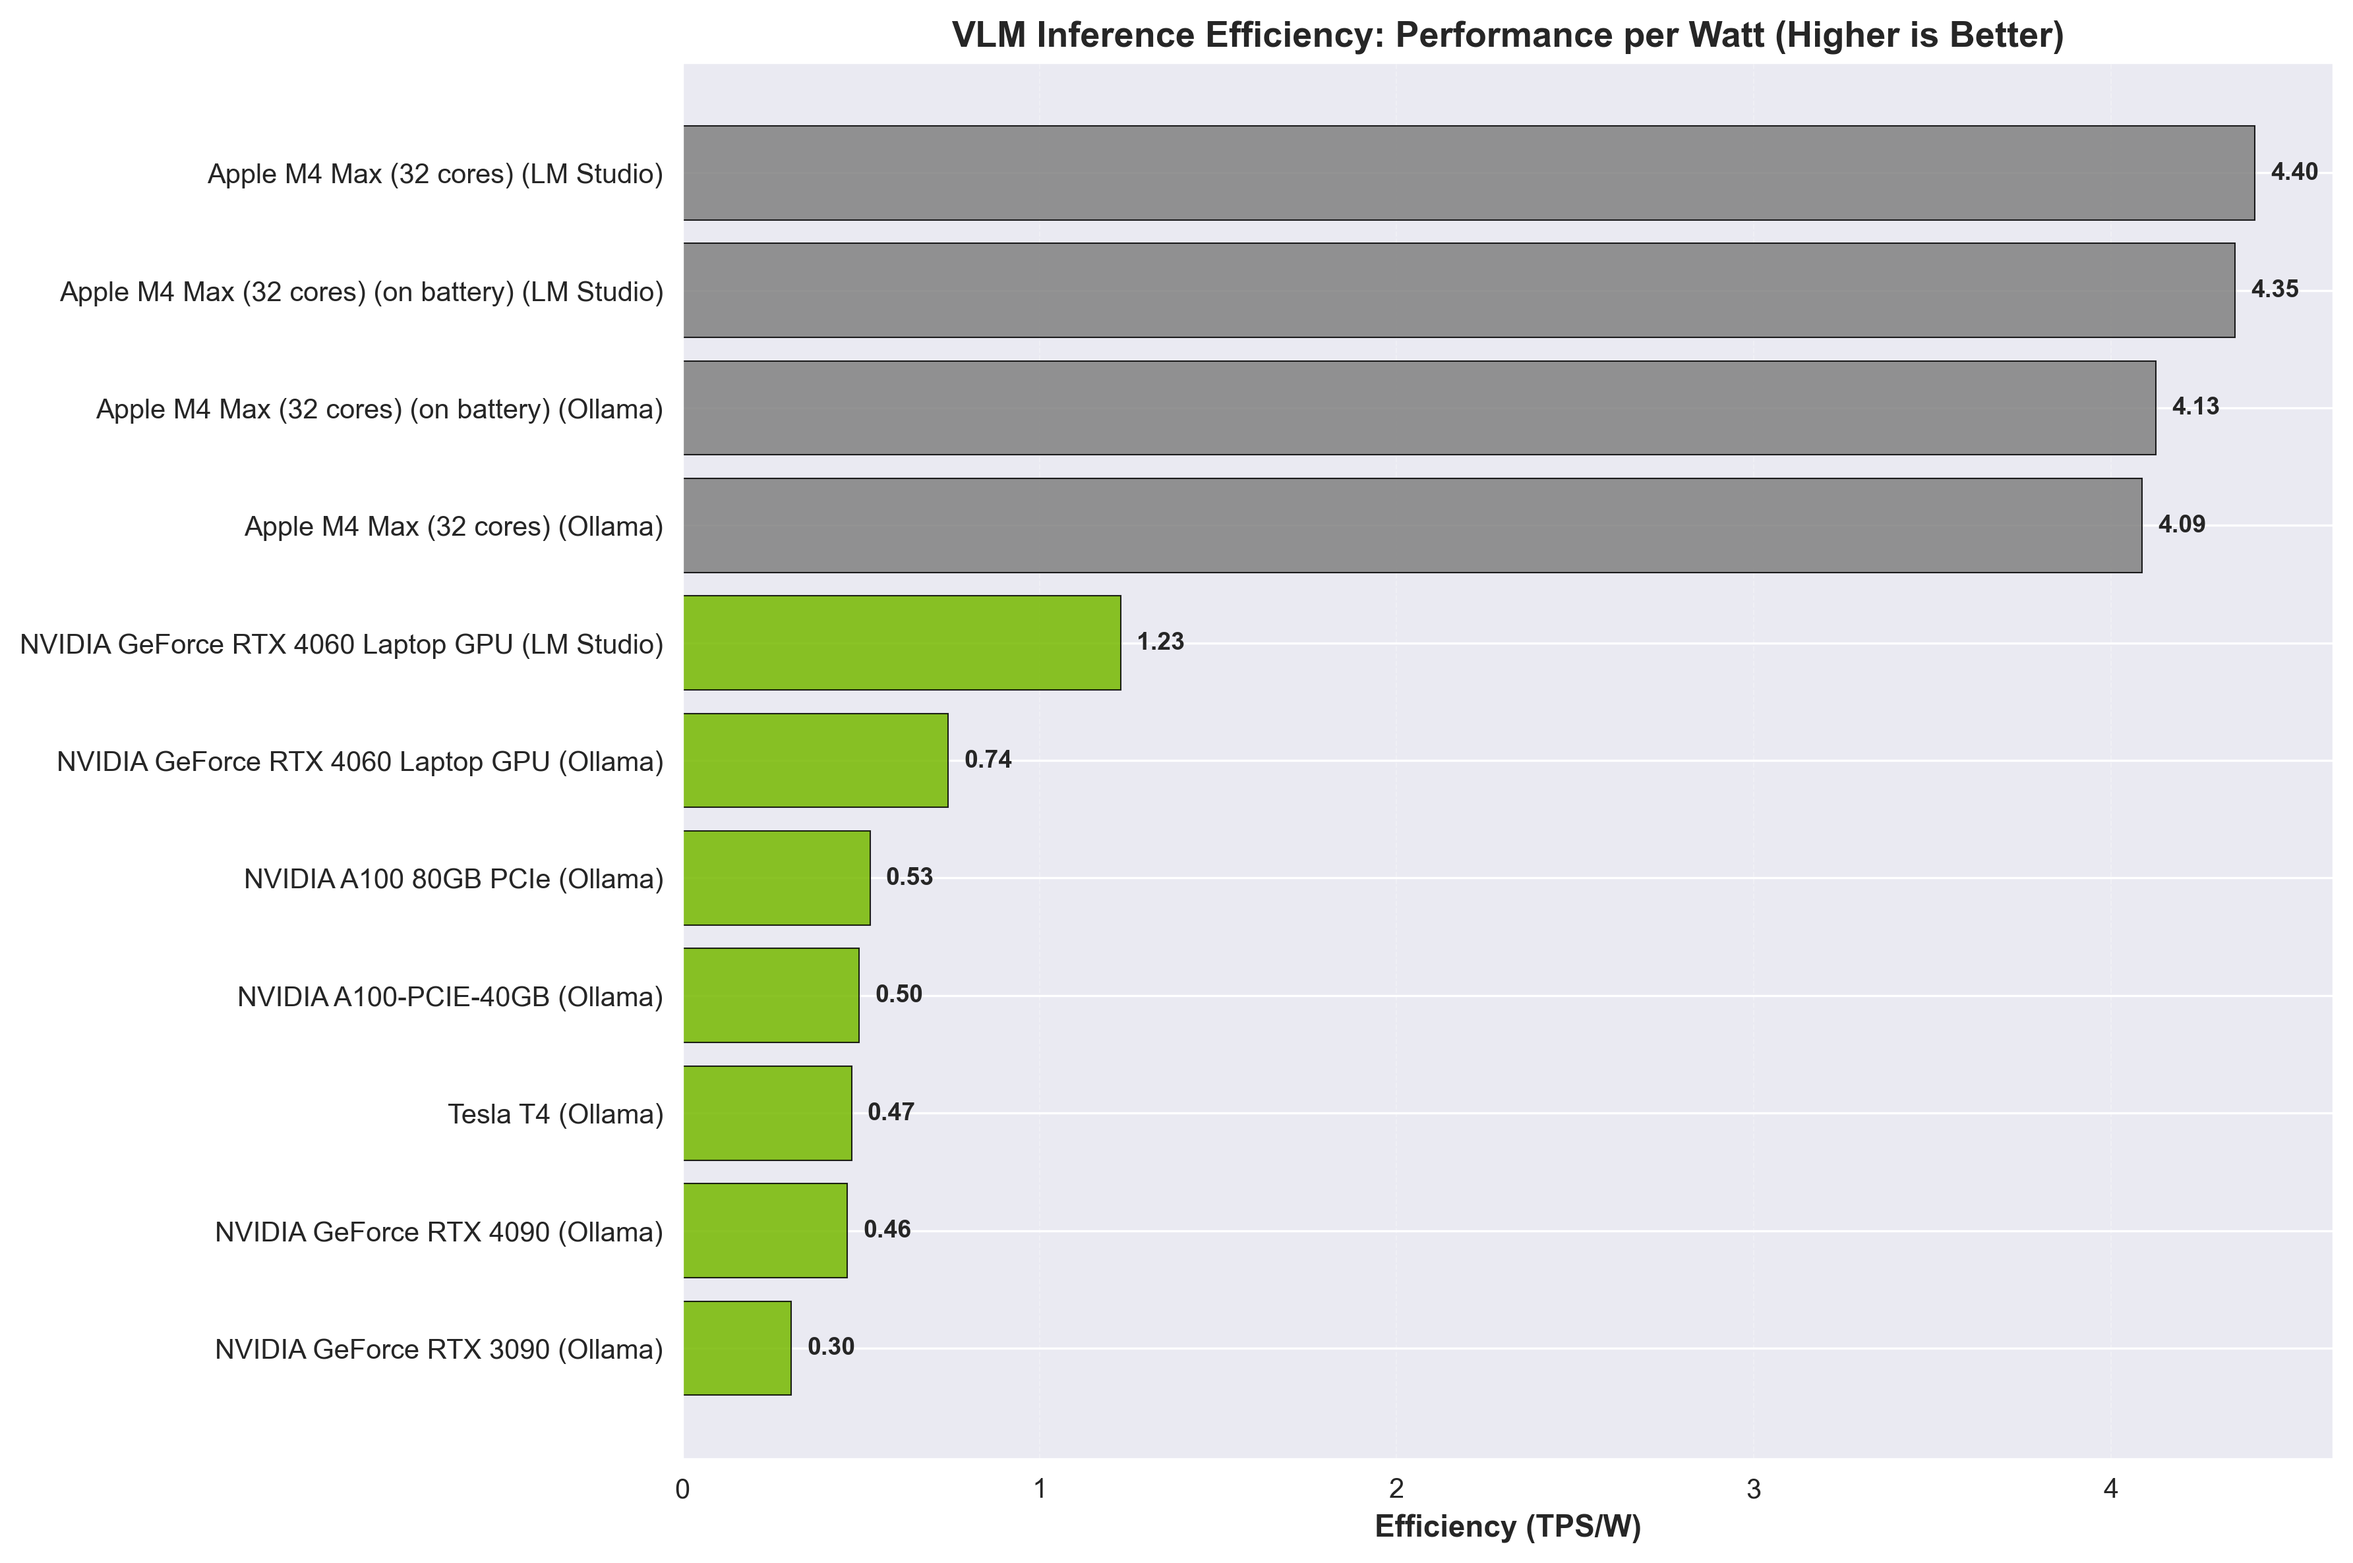
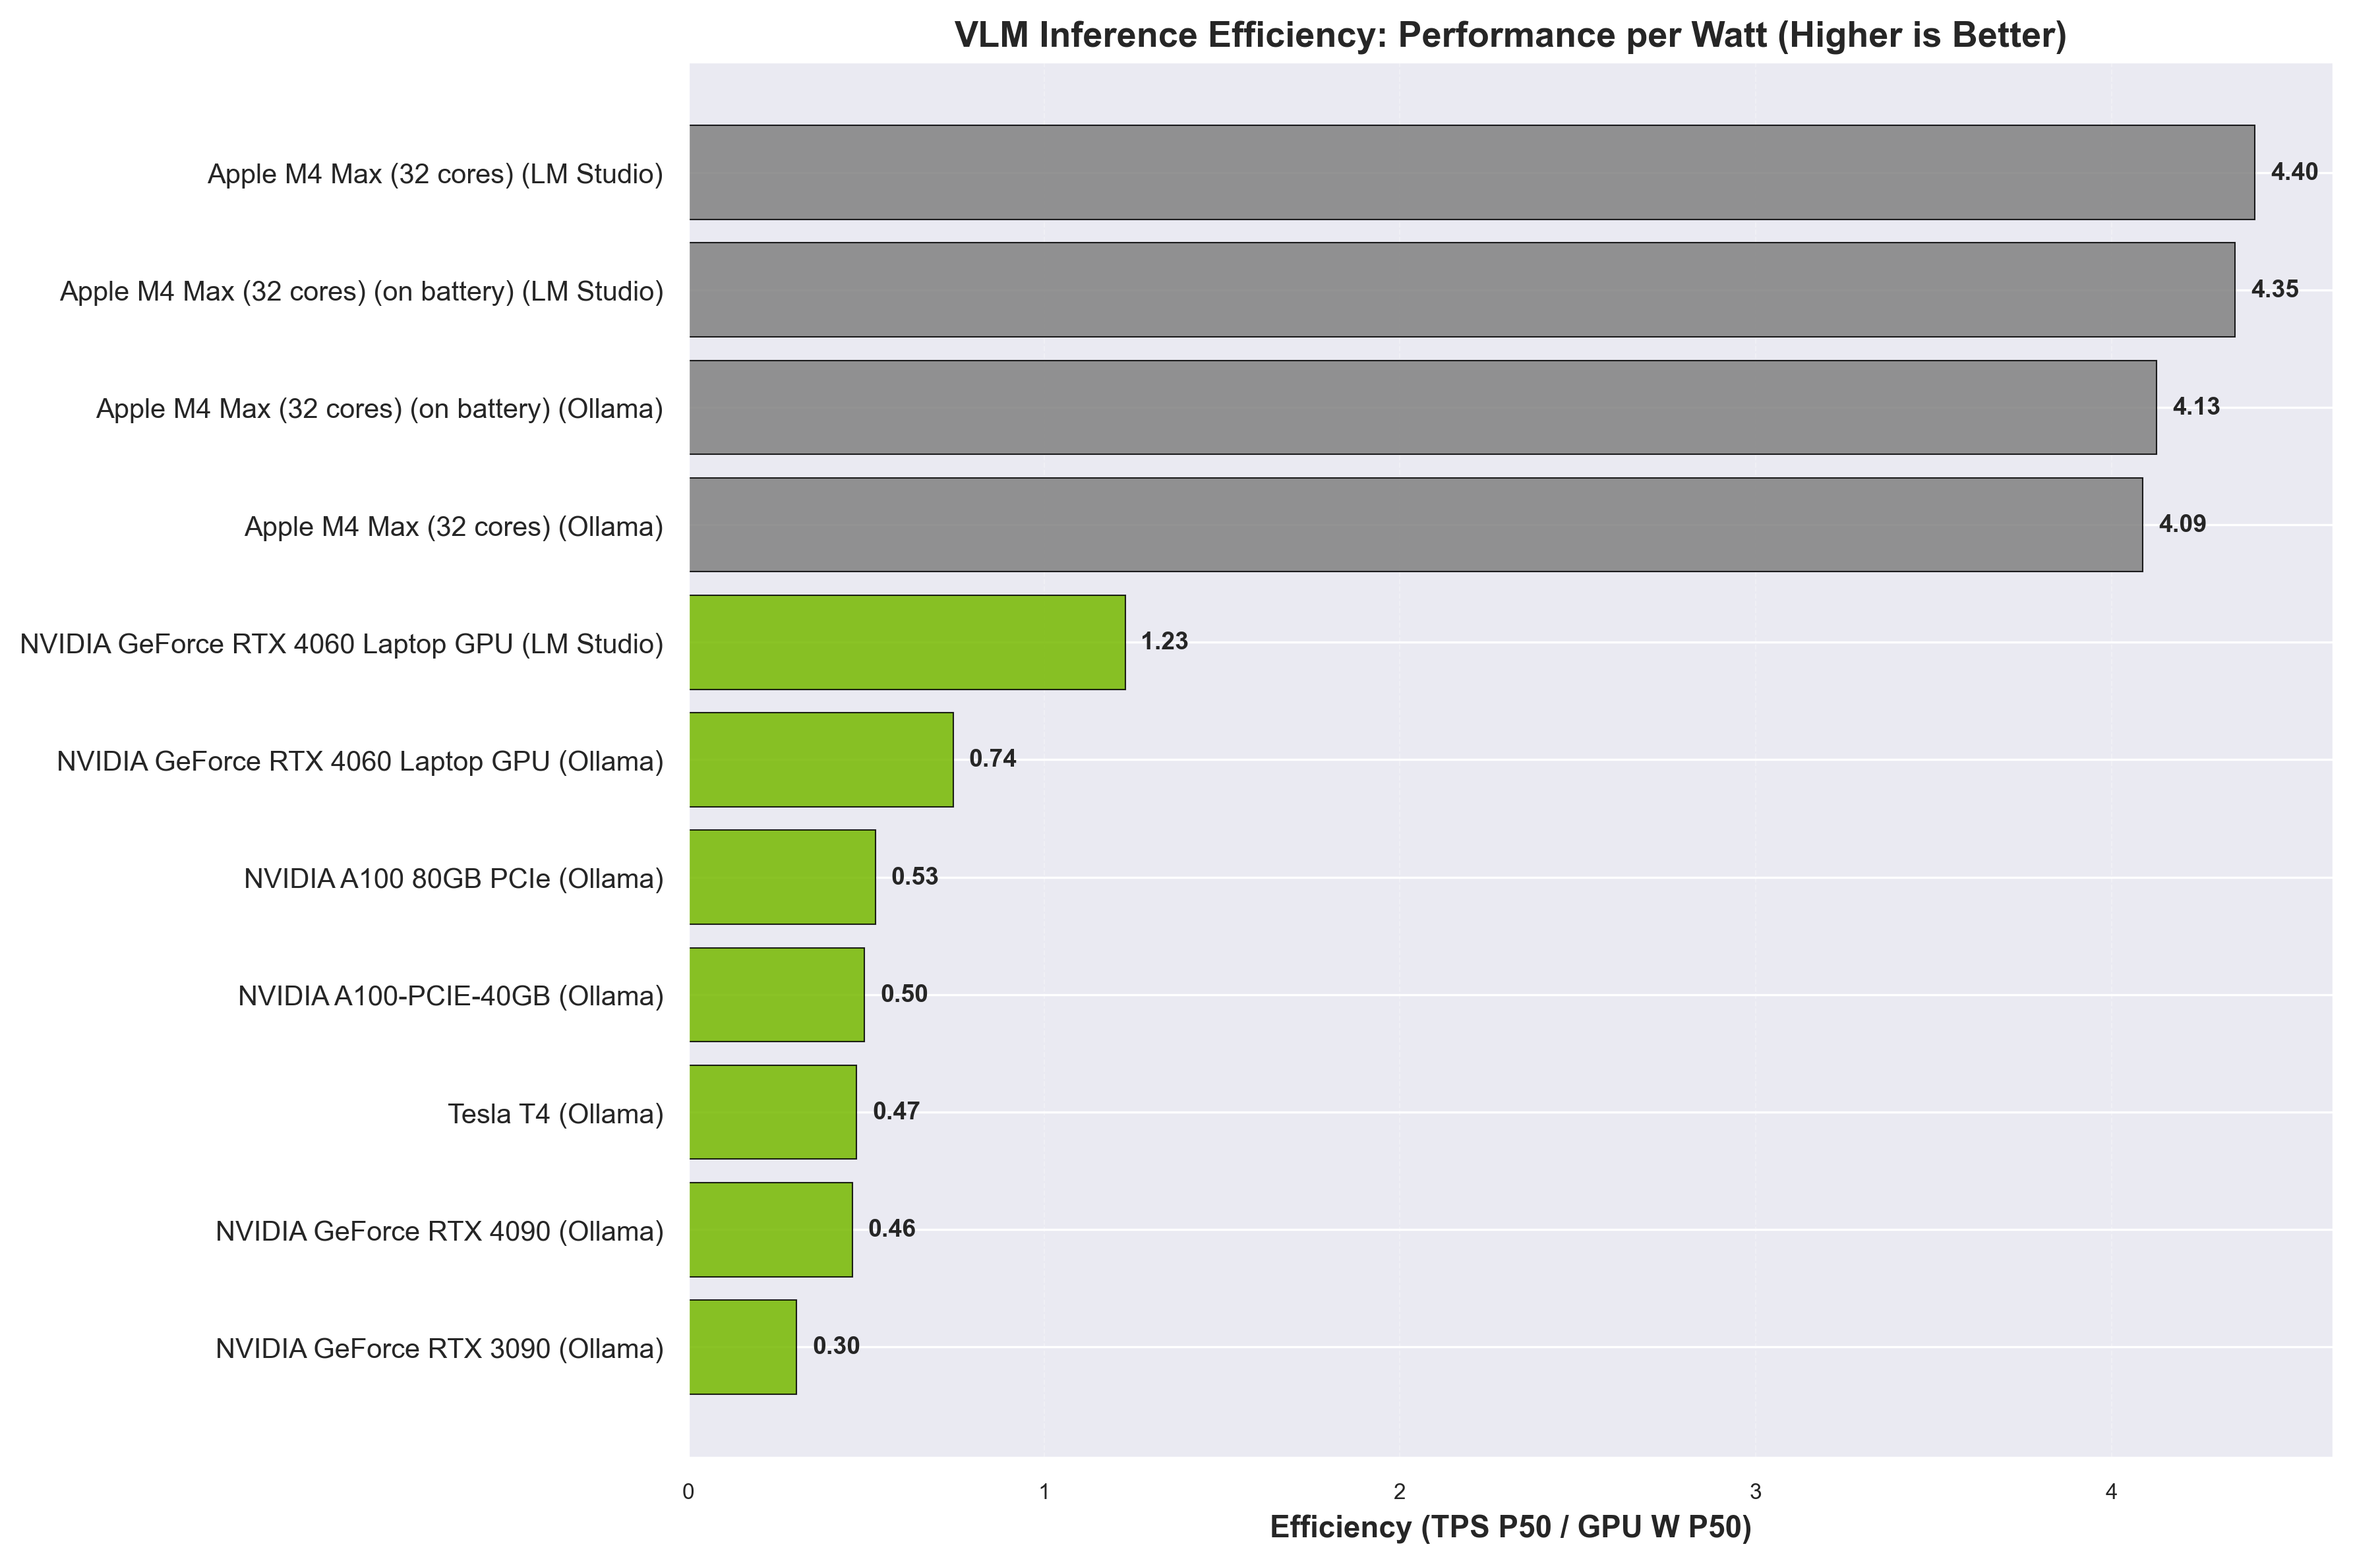
update efficiency plots info

diff --git a/src/reporting/markdown/sections.py b/src/reporting/markdown/sections.py
@@ -14,7 +14,6 @@ from ..tables import (
     PowerMetricsTableGenerator,
     SummaryTableGenerator,
 )
-from .visualizations import generate_token_metric_visualizations
 
 
 class ResultsSectionGenerator:
@@ -102,30 +101,12 @@ class ResultsSectionGenerator:
         """Generate summary ranking table.
 
         Args:
-            include_efficiency_plots: Whether to include efficiency plots after summary
+            include_efficiency_plots: Whether to include efficiency plots after summary (deprecated, now ignored)
 
         Returns:
             Summary table markdown
         """
         summary = SummaryTableGenerator(self.results).generate()
-
-        # Add efficiency plots after summary table if requested
-        if include_efficiency_plots:
-            try:
-                plot_efficiency_comparison(self.results_dir)
-                plot_section = (
-                    "\n#### Performance Efficiency (Performance per Watt)\n\n"
-                    f"![Embeddings Efficiency]({self._plot_path('efficiency_embeddings.png')})\n"
-                    "*Embeddings efficiency across devices. Higher values indicate better performance per watt.*\n\n"
-                    f"![LLM Efficiency]({self._plot_path('efficiency_llm.png')})\n"
-                    "*LLM inference efficiency by backend. Higher values indicate better performance per watt.*\n\n"
-                    f"![VLM Efficiency]({self._plot_path('efficiency_vlm.png')})\n"
-                    "*VLM inference efficiency by backend. Higher values indicate better performance per watt.*\n"
-                )
-                summary += plot_section
-            except Exception as e:
-                print(f"⚠  Failed to generate efficiency plots: {e}")
-
         return summary
 
     def _generate_power_metrics(self) -> str:
@@ -173,6 +154,19 @@ class ResultsSectionGenerator:
                 except Exception as e:
                     print(f"⚠  Failed to generate embeddings plot: {e}")
 
+                # Add embeddings efficiency plot
+                try:
+                    plot_efficiency_comparison(self.results_dir)
+                    sections.append(
+                        f"\n![Embeddings Efficiency]({self._plot_path('efficiency_embeddings.png')})\n"
+                    )
+                    sections.append(
+                        "*Embeddings efficiency (RPS/W) across devices. "
+                        "Higher values indicate better performance per watt.*\n"
+                    )
+                except Exception as e:
+                    print(f"⚠  Failed to generate embeddings efficiency plot: {e}")
+
         return "\n".join(sections)
 
     def _generate_llms(self, include_plots: bool = True) -> str:
@@ -190,30 +184,13 @@ class ResultsSectionGenerator:
 
         sections = ["\n### LLMs\n", table]
 
-        # Add token metric plots if requested
+        # Add performance plots if requested
         if include_plots:
             has_llms = any(
                 any(t["task"] == "llms" for t in r["tasks"]) for r in self.results
             )
 
             if has_llms:
-                token_plots = generate_token_metric_visualizations(self.results_dir)
-                llm_plots = token_plots.get("llms")
-
-                if llm_plots:
-                    sections.append(
-                        f"![LLM TTFT vs Input Tokens]({self._plot_path('llm_ttft_vs_input_tokens.png')})\n"
-                    )
-                    sections.append(
-                        "*Time To First Token across prompt lengths. Lower values mean faster first responses.*\n\n"
-                    )
-                    sections.append(
-                        f"![LLM Generation Time vs Output Tokens]({self._plot_path('llm_tg_vs_output_tokens.png')})\n"
-                    )
-                    sections.append(
-                        "*Generation time growth relative to output length. Lower values reflect faster completions.*\n"
-                    )
-
                 # Add performance plots
                 try:
                     plot_llm_performance(self.results_dir)
@@ -234,6 +211,19 @@ class ResultsSectionGenerator:
                 except Exception as e:
                     print(f"⚠  Failed to generate LLM plots: {e}")
 
+                # Add LLM efficiency plot
+                try:
+                    plot_efficiency_comparison(self.results_dir)
+                    sections.append(
+                        f"\n![LLM Efficiency]({self._plot_path('efficiency_llm.png')})\n"
+                    )
+                    sections.append(
+                        "*LLM inference efficiency (TPS/W) by backend. "
+                        "Higher values indicate better performance per watt.*\n"
+                    )
+                except Exception as e:
+                    print(f"⚠  Failed to generate LLM efficiency plot: {e}")
+
         return "\n".join(sections)
 
     def _generate_vlms(self, include_plots: bool = True) -> str:
@@ -251,30 +241,13 @@ class ResultsSectionGenerator:
 
         sections = ["\n### VLMs\n", table]
 
-        # Add token metric plots if requested
+        # Add performance plots if requested
         if include_plots:
             has_vlms = any(
                 any(t["task"] == "vlms" for t in r["tasks"]) for r in self.results
             )
 
             if has_vlms:
-                token_plots = generate_token_metric_visualizations(self.results_dir)
-                vlm_plots = token_plots.get("vlms")
-
-                if vlm_plots:
-                    sections.append(
-                        f"![VLM TTFT vs Input Tokens]({self._plot_path('vlm_ttft_vs_input_tokens.png')})\n"
-                    )
-                    sections.append(
-                        "*TTFT behaviour for multimodal prompts. Lower values mean faster first visual-token outputs.*\n\n"
-                    )
-                    sections.append(
-                        f"![VLM Generation Time vs Output Tokens]({self._plot_path('vlm_tg_vs_output_tokens.png')})\n"
-                    )
-                    sections.append(
-                        "*Generation time vs output token count for multimodal responses. Lower values are faster.*\n"
-                    )
-
                 # Add performance plots
                 try:
                     plot_vlm_performance(self.results_dir)
@@ -294,6 +267,19 @@ class ResultsSectionGenerator:
                     )
                 except Exception as e:
                     print(f"⚠  Failed to generate VLM plots: {e}")
+
+                # Add VLM efficiency plot
+                try:
+                    plot_efficiency_comparison(self.results_dir)
+                    sections.append(
+                        f"\n![VLM Efficiency]({self._plot_path('efficiency_vlm.png')})\n"
+                    )
+                    sections.append(
+                        "*VLM inference efficiency (TPS/W) by backend. "
+                        "Higher values indicate better performance per watt.*\n"
+                    )
+                except Exception as e:
+                    print(f"⚠  Failed to generate VLM efficiency plot: {e}")
 
         return "\n".join(sections)
 

diff --git a/src/plots/plot_efficiency.py b/src/plots/plot_efficiency.py
@@ -163,7 +163,9 @@ def plot_efficiency_comparison(
         )
         ax1.set_yticks(range(len(devices)))
         ax1.set_yticklabels(devices, fontsize=10)
-        ax1.set_xlabel("Efficiency (RPS/W)", fontsize=11, fontweight="bold")
+        ax1.set_xlabel(
+            "Efficiency (RPS P50 / GPU W P50)", fontsize=11, fontweight="bold"
+        )
         ax1.set_title(
             "Embeddings Efficiency: Performance per Watt (Higher is Better)",
             fontsize=13,
@@ -217,7 +219,9 @@ def plot_efficiency_comparison(
         )
         ax2.set_yticks(range(len(labels)))
         ax2.set_yticklabels(labels, fontsize=10)
-        ax2.set_xlabel("Efficiency (TPS/W)", fontsize=11, fontweight="bold")
+        ax2.set_xlabel(
+            "Efficiency (TPS P50 / GPU W P50)", fontsize=11, fontweight="bold"
+        )
         ax2.set_title(
             "LLM Inference Efficiency: Performance per Watt (Higher is Better)",
             fontsize=13,
@@ -271,7 +275,9 @@ def plot_efficiency_comparison(
         )
         ax3.set_yticks(range(len(labels)))
         ax3.set_yticklabels(labels, fontsize=10)
-        ax3.set_xlabel("Efficiency (TPS/W)", fontsize=11, fontweight="bold")
+        ax3.set_xlabel(
+            "Efficiency (TPS P50 / GPU W P50)", fontsize=11, fontweight="bold"
+        )
         ax3.set_title(
             "VLM Inference Efficiency: Performance per Watt (Higher is Better)",
             fontsize=13,

diff --git a/docs/results.md b/docs/results.md
@@ -51,17 +51,6 @@ The `MLX` backend makes the benchmark harder to maintain, but it provides a more
 *Efficiency metrics (RPS/W, TPS/W) are calculated using GPU power consumption*
 
 
-#### Performance Efficiency (Performance per Watt)
-
-![Embeddings Efficiency](plots/efficiency_embeddings.png)
-*Embeddings efficiency across devices. Higher values indicate better performance per watt.*
-
-![LLM Efficiency](plots/efficiency_llm.png)
-*LLM inference efficiency by backend. Higher values indicate better performance per watt.*
-
-![VLM Efficiency](plots/efficiency_vlm.png)
-*VLM inference efficiency by backend. Higher values indicate better performance per watt.*
-
 
 ### Power Metrics
 
@@ -104,6 +93,11 @@ _RPS = Rows Per Second — number of text samples encoded per second._
 *Throughput comparison for different embedding models across hardware. Higher values indicate better performance.*
 
 
+![Embeddings Efficiency](plots/efficiency_embeddings.png)
+
+*Embeddings efficiency (RPS/W) across devices. Higher values indicate better performance per watt.*
+
+
 ### LLMs
 
 #### LLM Inference (10 prompts from awesome-chatgpt-prompts)
@@ -130,15 +124,6 @@ _RPS = Rows Per Second — number of text samples encoded per second._
 | OpenStack Nova RTX4090 | gpt-oss:20b | 148.69 ± 0.54 | 153.80 ± 0.24 | 2.69 ± 0.02 | 13.65 ± 0.04 | 0.26 ± 0.00 | 8.68 ± 0.03 | 6.25 ± 0.12 | 18.51 ± 0.08 | 1728 | 11939 |
 | OpenStack Nova Tesla T4 | gpt-oss:20b | 41.49 ± 0.23 | 42.17 ± 0.07 | 13.07 ± 2.85 | 52.33 ± 15.42 | 0.85 ± 0.11 | 35.54 ± 4.21 | 15.88 ± 1.51 | 84.51 ± 10.32 | 1728 | 12812 |
 
-![LLM TTFT vs Input Tokens](plots/llm_ttft_vs_input_tokens.png)
-
-*Time To First Token across prompt lengths. Lower values mean faster first responses.*
-
-
-![LLM Generation Time vs Output Tokens](plots/llm_tg_vs_output_tokens.png)
-
-*Generation time growth relative to output length. Lower values reflect faster completions.*
-
 ![LLM E2E Latency Performance](plots/llm_latency.png)
 
 *End-to-End Latency P50 - Lower is better. Measures full request-to-response time.*
@@ -147,6 +132,11 @@ _RPS = Rows Per Second — number of text samples encoded per second._
 ![LLM Throughput Performance](plots/llm_tps.png)
 
 *Token Generation per second (TPS) - Higher is better. Measures token generation speed.*
+
+
+![LLM Efficiency](plots/efficiency_llm.png)
+
+*LLM inference efficiency (TPS/W) by backend. Higher values indicate better performance per watt.*
 
 
 ### VLMs
@@ -175,15 +165,6 @@ _RPS = Rows Per Second — number of text samples encoded per second._
 | OpenStack Nova RTX4090 | qwen3-vl:8b | 130.42 ± 0.25 | 130.94 ± 0.22 | 5.53 ± 0.01 | 8.99 ± 0.01 | 5.85 ± 0.07 | 7.29 ± 0.01 | 10.97 ± 0.21 | 15.24 ± 0.03 | 1814 | 14971 |
 | OpenStack Nova Tesla T4 | qwen3-vl:8b | 32.63 ± 0.01 | 32.74 ± 0.06 | 23.38 ± 0.04 | 32.20 ± 0.02 | 23.17 ± 0.10 | 32.79 ± 0.04 | 46.78 ± 0.51 | 63.59 ± 0.05 | 1814 | 15706 |
 
-![VLM TTFT vs Input Tokens](plots/vlm_ttft_vs_input_tokens.png)
-
-*TTFT behaviour for multimodal prompts. Lower values mean faster first visual-token outputs.*
-
-
-![VLM Generation Time vs Output Tokens](plots/vlm_tg_vs_output_tokens.png)
-
-*Generation time vs output token count for multimodal responses. Lower values are faster.*
-
 ![VLM E2E Latency Performance](plots/vlm_latency.png)
 
 *End-to-End Latency P50 - Lower is better. Measures full request-to-response time.*
@@ -192,6 +173,11 @@ _RPS = Rows Per Second — number of text samples encoded per second._
 ![VLM Throughput Performance](plots/vlm_tps.png)
 
 *Token Generation per second (TPS) - Higher is better. Measures token generation speed.*
+
+
+![VLM Efficiency](plots/efficiency_vlm.png)
+
+*VLM inference efficiency (TPS/W) by backend. Higher values indicate better performance per watt.*
 
 
 ---
